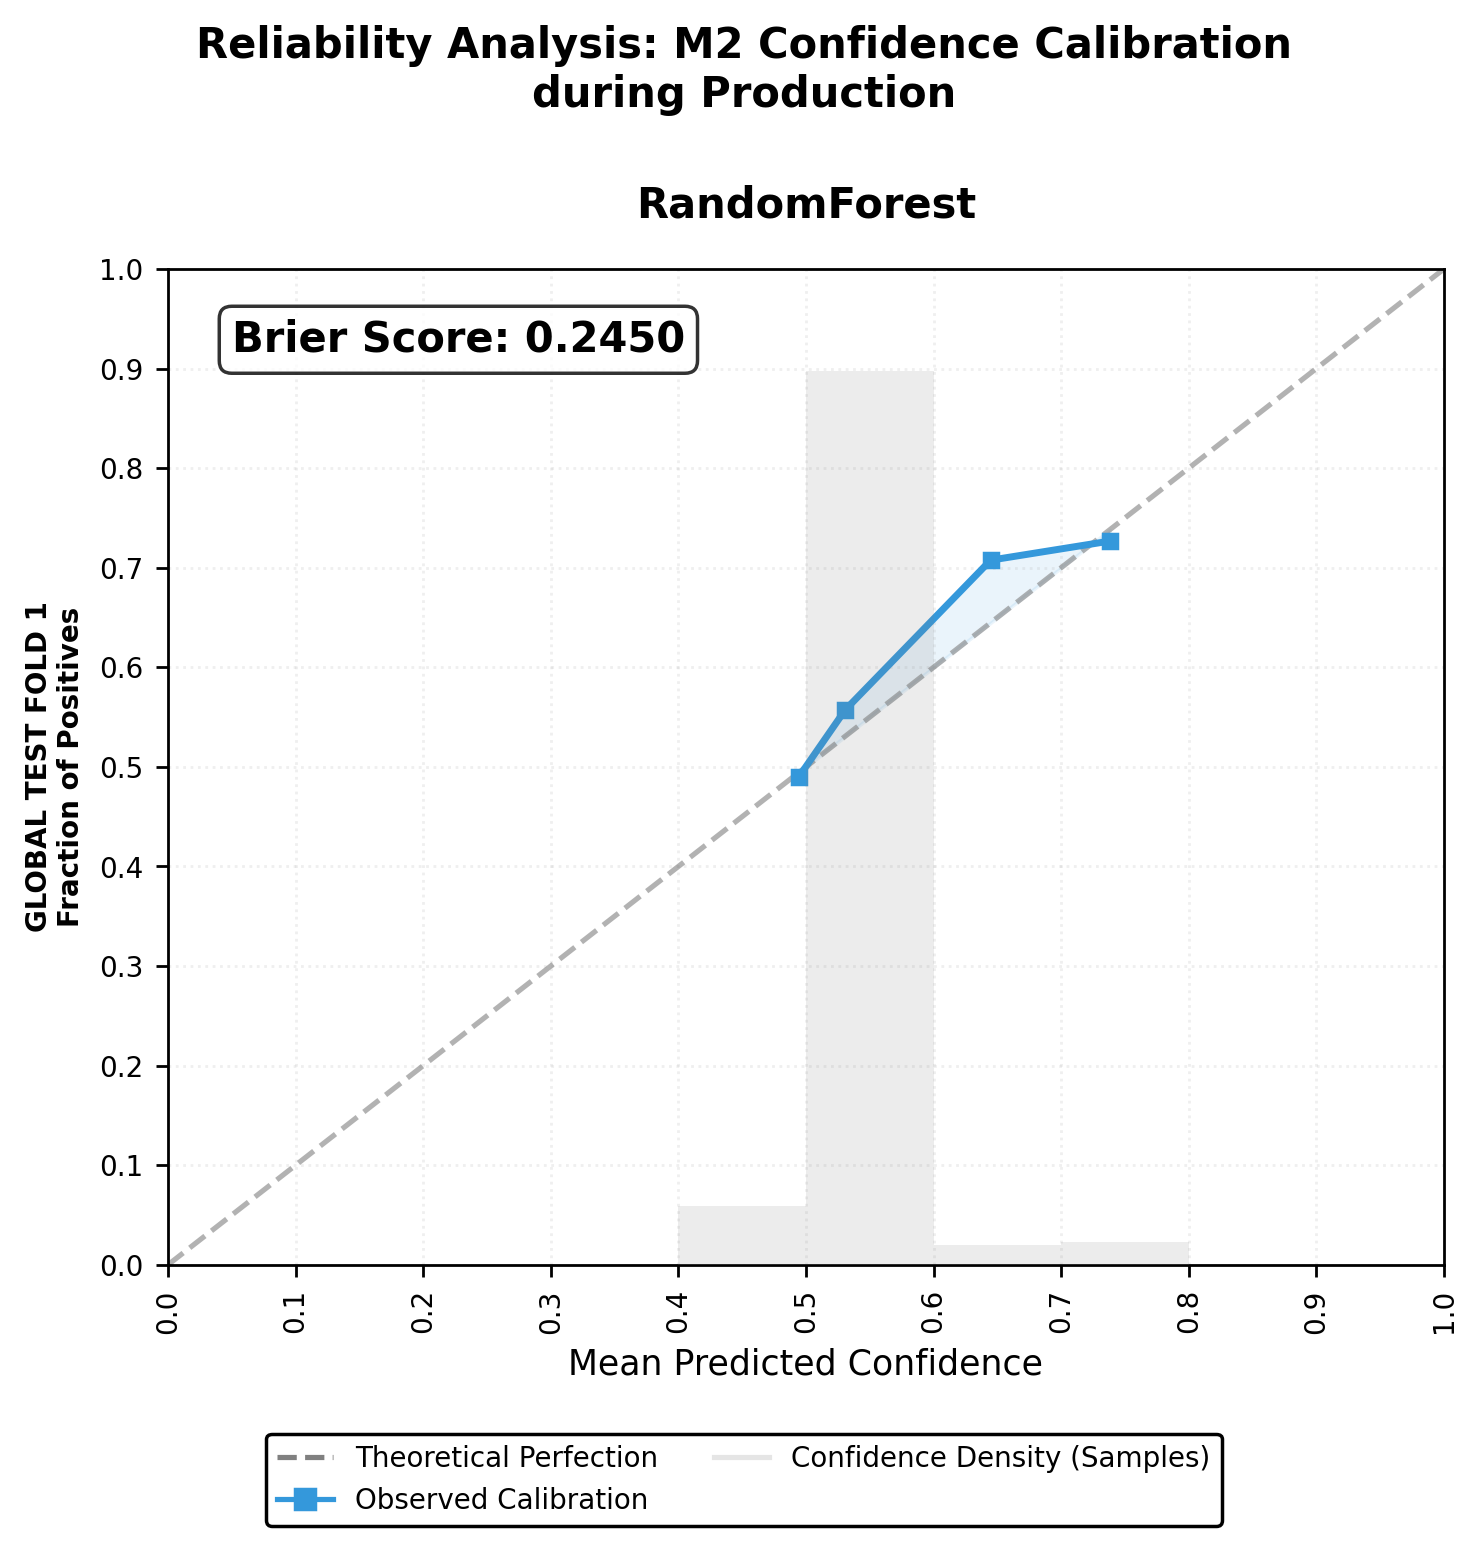
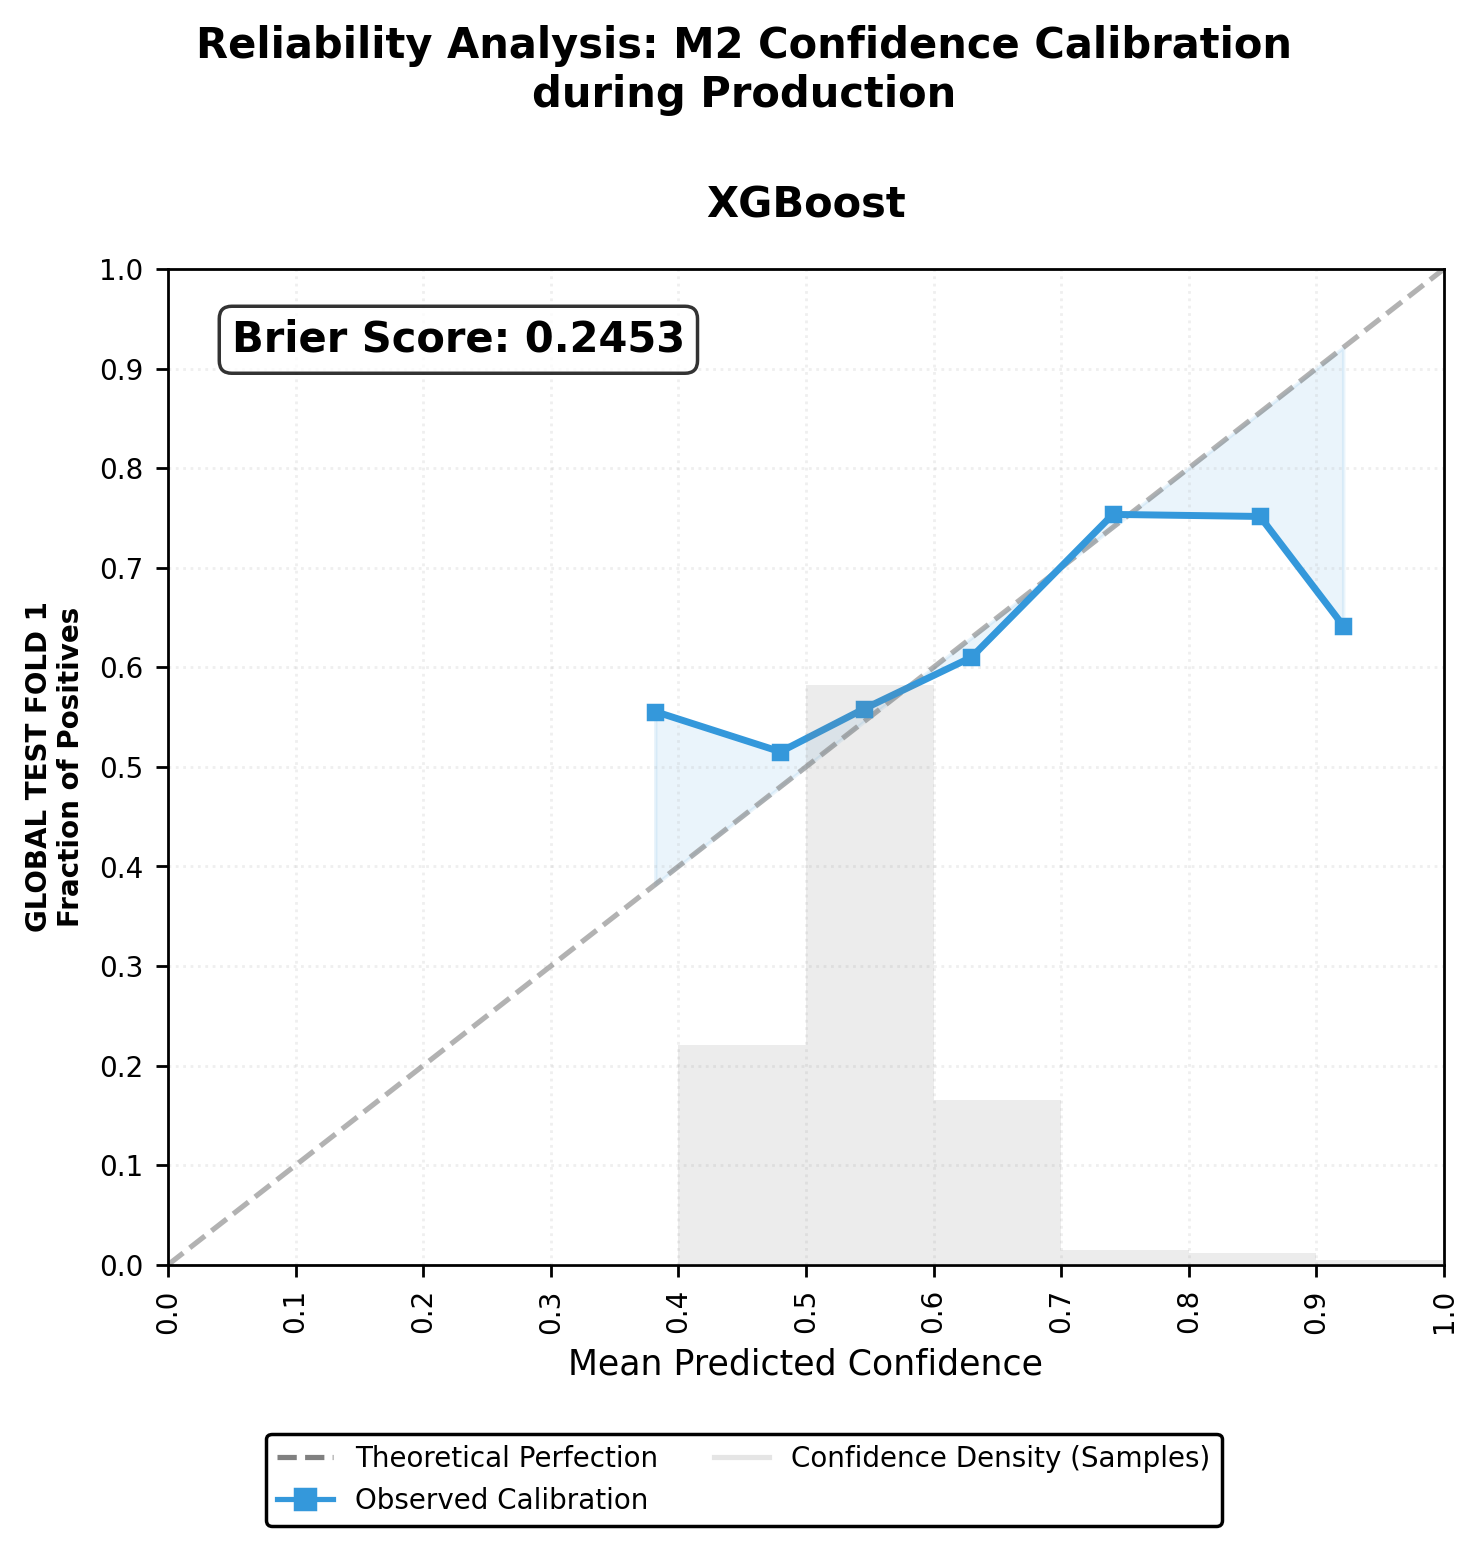
results after running production pipeline on xgboost with 50 model and 100 trading trials

diff --git a/data/tables/production/performance_tables/perf_XGBoost_production.tex b/data/tables/production/performance_tables/perf_XGBoost_production.tex
@@ -1,0 +1,26 @@
+\begin{table}[H]
+\centering
+\caption{{Granular Performance Analysis XGBoost (Production Phase)}}
+\label{tab:perf_XGBoost_production}
+\resizebox{\textwidth}{!}{\begin{tabular}{rrrrrrrrrrrrrr}
+\toprule
+Pair & Fold & \rotatebox{90}{Total Return (\%)} & \rotatebox{90}{Sharpe Ratio} & \rotatebox{90}{Probabilistic Sharpe (\%)} & \rotatebox{90}{Max Drawdown (\%)} & \rotatebox{90}{CAGR (\%)} & \rotatebox{90}{Win Rate (\%)} & \rotatebox{90}{Profit Factor} & \rotatebox{90}{Number of Trades} & \rotatebox{90}{Avg Capital Exposure (\%)} & \rotatebox{90}{Avg Trade Size (\%)} & \rotatebox{90}{Deflated Sharpe (\%)} & \rotatebox{90}{M2 Brier} \\
+\midrule
+AUDUSD & Fold 1 & 0.0000\% & 0.0000 & 0.0000\% & 0.0000\% & 0.0000\% & 0.0000\% & 0.0000 & 0.0000 & 0.0000\% & 0.0000\% & 0.0000\% & 0.25 \\
+EURUSD & Fold 1 & 0.42\% & 0.77 & 64.02\% & -0.96\% & 1.97\% & 14.04\% & 1.14 & 171.00 & 37.86\% & 73.11\% & 13.57\% & 0.25 \\
+GBPUSD & Fold 1 & 0.0000\% & 0.0000 & 0.0000\% & 0.0000\% & 0.0000\% & 0.0000\% & 0.0000 & 0.0000 & 0.0000\% & 0.0000\% & 0.0000\% & 0.25 \\
+NZDUSD & Fold 1 & 0.72\% & 0.78 & 64.19\% & -2.13\% & 3.31\% & 29.37\% & 1.13 & 126.00 & 31.89\% & 52.67\% & 13.43\% & 0.25 \\
+USDCAD & Fold 1 & -1.77\% & -4.02 & 3.30\% & -2.01\% & -7.75\% & 8.00\% & 0.35 & 100.00 & 19.31\% & 65.88\% & 0.05\% & 0.25 \\
+USDCHF & Fold 1 & -0.29\% & -2.43 & 12.58\% & -0.33\% & -1.32\% & 0.0000\% & 0.0000 & 1.00 & 1.49\% & 45.74\% & 0.43\% & 0.25 \\
+USDCNH & Fold 1 & 1.02\% & 2.20 & 84.67\% & -0.63\% & 4.71\% & 24.42\% & 1.24 & 475.00 & 76.69\% & 80.07\% & 33.07\% & 0.25 \\
+USDJPY & Fold 1 & -0.13\% & -0.13 & 47.57\% & -1.18\% & -0.56\% & 15.80\% & 0.96 & 633.00 & 55.32\% & 69.98\% & 6.15\% & 0.25 \\
+USDMXN & Fold 1 & 9.65\% & 9.29 & 100.00\% & -0.79\% & 51.85\% & 23.16\% & 1.84 & 734.00 & 56.35\% & 61.98\% & 99.82\% & 0.25 \\
+USDTRY & Fold 1 & 6.29\% & 15.81 & 100.00\% & -0.24\% & 31.73\% & 32.28\% & 2.96 & 951.00 & 65.70\% & 69.00\% & 100.00\% & 0.25 \\
+USDZAR & Fold 1 & 79.26\% & 16.89 & 100.00\% & -1.83\% & 1290.81\% & 27.23\% & 5.33 & 716.00 & 84.01\% & 92.88\% & 100.00\% & 0.25 \\
+\midrule
+\midrule
+Fold 1 Avg &  & \shortstack{8.65\% \\ $\pm$ 23.66\%} & \shortstack{3.56 \\ $\pm$ 7.14} & \shortstack{52.39\% \\ $\pm$ 41.98\%} & \shortstack{-0.92\% \\ $\pm$ 0.78\%} & \shortstack{124.98\% \\ $\pm$ 387.06\%} & \shortstack{15.85\% \\ $\pm$ 12.36\%} & \shortstack{1.36 \\ $\pm$ 1.59} & \shortstack{355.18 \\ $\pm$ 353.49} & \shortstack{38.97\% \\ $\pm$ 31.01\%} & \shortstack{55.57\% \\ $\pm$ 30.19\%} & \shortstack{33.32\% \\ $\pm$ 43.87\%} & \shortstack{0.25 \\ $\pm$ 0.0000} \\
+Total Avg &  & \shortstack{8.65\% \\ $\pm$ 23.66\%} & \shortstack{3.56 \\ $\pm$ 7.14} & \shortstack{52.39\% \\ $\pm$ 41.98\%} & \shortstack{-0.92\% \\ $\pm$ 0.78\%} & \shortstack{124.98\% \\ $\pm$ 387.06\%} & \shortstack{15.85\% \\ $\pm$ 12.36\%} & \shortstack{1.36 \\ $\pm$ 1.59} & \shortstack{355.18 \\ $\pm$ 353.49} & \shortstack{38.97\% \\ $\pm$ 31.01\%} & \shortstack{55.57\% \\ $\pm$ 30.19\%} & \shortstack{33.32\% \\ $\pm$ 43.87\%} & \shortstack{0.25 \\ $\pm$ 0.0000} \\
+\bottomrule
+\end{tabular}}
+\end{table}

diff --git a/data/tables/production/strategy_comparison/strategy_comp_XGBoost_production.tex b/data/tables/production/strategy_comparison/strategy_comp_XGBoost_production.tex
@@ -1,0 +1,25 @@
+\begin{table}[H]
+\centering
+\caption{{Cross-Strategy Performance Comparison: XGBoost (Production Phase) - Annualized Sharpe Ratio}}
+\label{tab:strategy_comparison_XGBoost_production}
+\resizebox{\textwidth}{!}{\begin{tabular}{llllllll}
+\toprule
+Fold & Pair & Buy and Hold & SMA Crossover & M1 Only & M1 + M2 (Fixed) & M1 + M2 (Global) & M1 + M2 (Conformal) \\
+\midrule
+Fold 1 & AUDUSD & -1.08 & -0.98 & -7.21 & -3.20 & -2.11 & 0.00 \\
+ & EURUSD & -2.02 & -1.52 & -12.79 & 0.05 & -0.26 & 0.77 \\
+ & GBPUSD & -0.82 & -3.50 & -3.94 & -3.92 & -1.00 & 0.00 \\
+ & NZDUSD & -1.32 & -1.12 & -2.27 & 1.60 & 1.69 & 0.78 \\
+ & USDCAD & 2.47 & 2.03 & -5.47 & -0.73 & -1.39 & -4.02 \\
+ & USDCHF & 1.47 & -2.60 & -9.96 & -5.17 & -3.43 & -2.43 \\
+ & USDCNH & -1.05 & -1.02 & 2.64 & 2.64 & 3.61 & 2.20 \\
+ & USDJPY & 1.27 & -0.01 & -0.25 & 1.72 & 0.96 & -0.13 \\
+ & USDMXN & 0.36 & -3.48 & 13.36 & 13.58 & 9.81 & 9.29 \\
+ & USDTRY & 7.83 & 7.31 & 18.32 & 17.49 & 11.28 & 15.81 \\
+ & USDZAR & 0.08 & -0.61 & 15.41 & 17.38 & 16.13 & 16.89 \\
+\midrule
+ & \textbf{AVERAGE} & \textbf{0.65 ($\pm$ 2.75)} & \textbf{-0.50 ($\pm$ 3.03)} & \textbf{0.71 ($\pm$ 10.58)} & \textbf{3.77 ($\pm$ 8.38)} & \textbf{3.21 ($\pm$ 6.38)} & \textbf{3.56 ($\pm$ 7.14)} \\
+\midrule
+\bottomrule
+\end{tabular}}
+\end{table}

diff --git a/data/tables/production/rrf_leaderboard/rrf_matrix_production.tex b/data/tables/production/rrf_leaderboard/rrf_matrix_production.tex
@@ -3,19 +3,19 @@
 \label{tab:rrf_matrix_production}
 \small \begin{tabular}{l l c}
 \toprule
-Currency Pair & Fold & \rotatebox{90}{RandomForest} \\
+Currency Pair & Fold & \rotatebox{90}{XGBoost} \\
 \midrule
-AUDUSD & Fold 1 & 6 (0.120) \\
-EURUSD & Fold 1 & 10 (0.117) \\
-GBPUSD & Fold 1 & 4 (0.125) \\
-NZDUSD & Fold 1 & 9 (0.119) \\
-USDCAD & Fold 1 & 6 (0.120) \\
-USDCHF & Fold 1 & 6 (0.120) \\
-USDCNH & Fold 1 & 3 (0.126) \\
-USDJPY & Fold 1 & 11 (0.116) \\
-USDMXN & Fold 1 & 2 (0.127) \\
-USDTRY & Fold 1 & 1 (0.128) \\
-USDZAR & Fold 1 & 5 (0.125) \\
+AUDUSD & Fold 1 & 7 (0.119) \\
+EURUSD & Fold 1 & 6 (0.121) \\
+GBPUSD & Fold 1 & 7 (0.119) \\
+NZDUSD & Fold 1 & 5 (0.122) \\
+USDCAD & Fold 1 & 11 (0.115) \\
+USDCHF & Fold 1 & 10 (0.117) \\
+USDCNH & Fold 1 & 4 (0.125) \\
+USDJPY & Fold 1 & 9 (0.118) \\
+USDMXN & Fold 1 & 3 (0.127) \\
+USDTRY & Fold 1 & 1 (0.129) \\
+USDZAR & Fold 1 & 2 (0.129) \\
 \bottomrule
 \end{tabular}
 \end{table}

diff --git a/data/tables/production/trading_hps_table/hps_XGBoost_production.tex b/data/tables/production/trading_hps_table/hps_XGBoost_production.tex
@@ -1,0 +1,22 @@
+\begin{table}[H]
+\centering
+\caption{Hyperparameters for XGBoost Model (Production Phase)}
+\label{tab:hps_XGBoost_production}
+\resizebox{\textwidth}{!}{%
+\begin{tabular}{lccccccccccc}
+\toprule
+ & \rot{AUDUSD} & \rot{EURUSD} & \rot{GBPUSD} & \rot{NZDUSD} & \rot{USDCAD} & \rot{USDCHF} & \rot{USDCNH} & \rot{USDJPY} & \rot{USDMXN} & \rot{USDTRY} & \rot{USDZAR} \\
+\midrule
+\multicolumn{11}{c}{\textbf{Fold 1}} \\
+\midrule
+Kelly F. & 0.27 & 0.95 & 0.28 & 0.66 & 0.74 & 0.41 & 0.37 & 0.64 & 0.27 & 0.87 & 0.85 \\
+MH & 30.00 & 27.00 & 15.00 & 24.00 & 29.00 & 43.00 & 18.00 & 11.00 & 31.00 & 44.00 & 12.00 \\
+Max Exp. & 81.00 & 78.00 & 67.00 & 85.00 & 75.00 & 58.00 & 87.00 & 70.00 & 62.00 & 69.00 & 93.00 \\
+Meta Sig. & 0.07 & 0.20 & 0.03 & 0.15 & 0.13 & 0.07 & 0.16 & 0.16 & 0.08 & 0.13 & 0.10 \\
+Risk Pct. & 0.02 & 0.02 & 0.02 & 0.02 & 0.02 & 0.0087 & 0.0067 & 0.0090 & 0.01 & 0.0061 & 0.02 \\
+SL Mult. & 1.13 & 2.85 & 2.76 & 4.66 & 4.08 & 2.69 & 4.13 & 3.21 & 1.13 & 4.02 & 3.92 \\
+TP Mult. & 4.12 & 2.55 & 2.85 & 1.69 & 3.90 & 4.67 & 1.52 & 2.17 & 1.51 & 1.00 & 1.38 \\
+\bottomrule
+\end{tabular}
+}%
+\end{table}

diff --git a/data/tables/production/rrf_leaderboard/rrf_summary_production.tex b/data/tables/production/rrf_leaderboard/rrf_summary_production.tex
@@ -5,7 +5,7 @@
 \toprule
 Model & Fold & Best Performers (RRF) & Worst Performers (RRF) \\
 \midrule
-RandomForest & Fold 1 & USDTRY, USDMXN & USDJPY, EURUSD \\
+XGBoost & Fold 1 & USDTRY, USDZAR & USDCAD, USDCHF \\
 \bottomrule
 \end{tabular}
 \end{table}